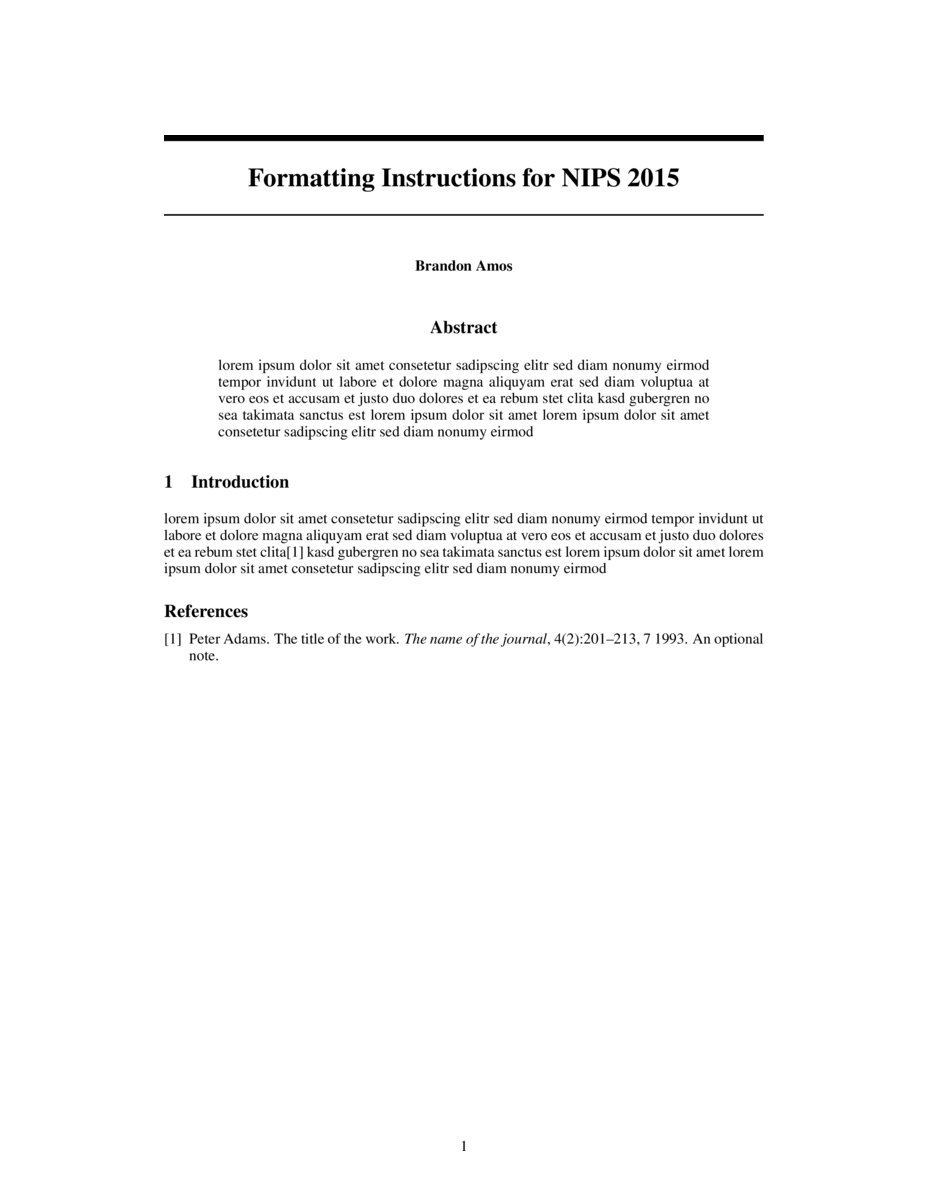
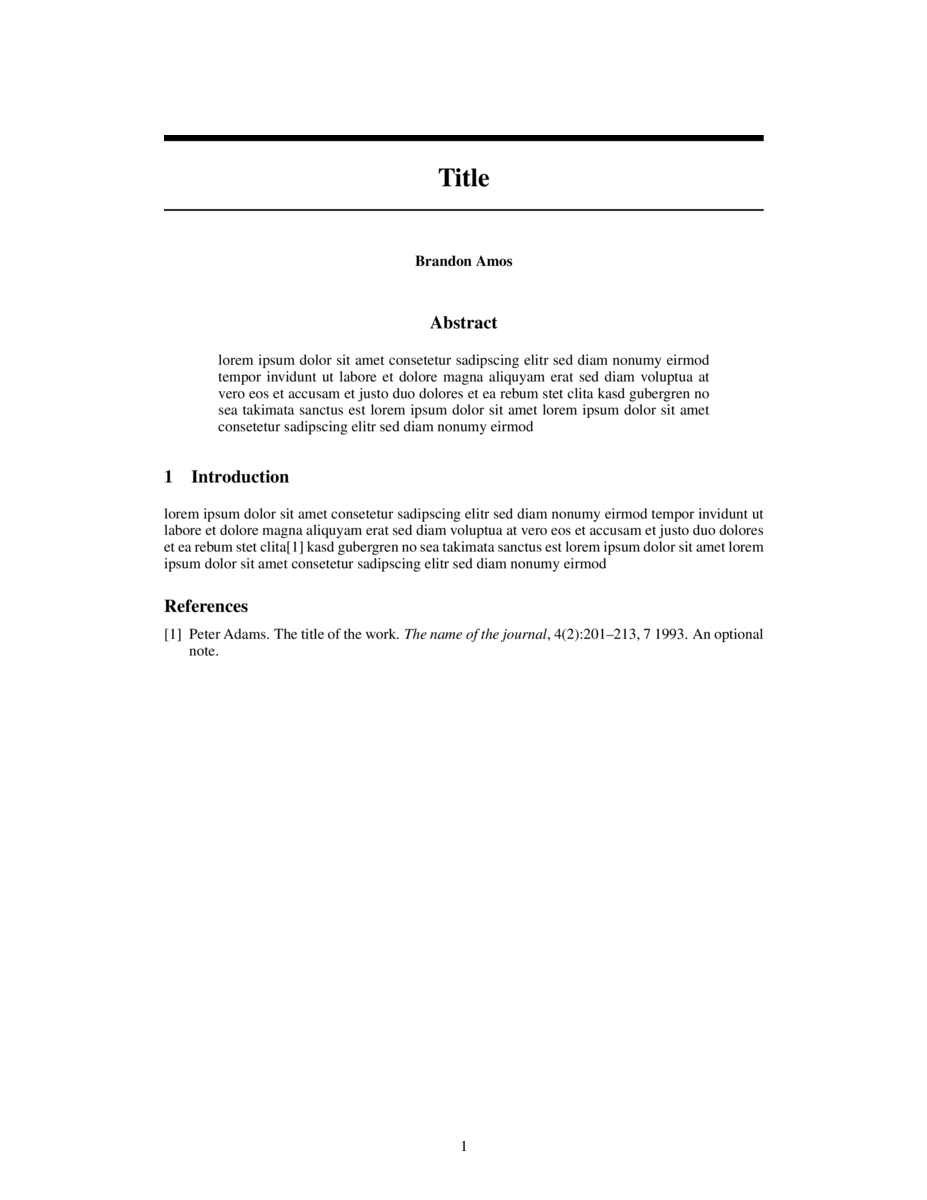
Built latex-templates from commit 4a4caff on branch master.

Changed region(s): [[0.1812, 0.2158, 0.8457, 0.555], [0.1812, 0.1233, 0.8155, 0.185]]

diff --git a/templates/nips/nips.tex b/templates/nips/nips.tex
@@ -6,8 +6,7 @@
 \usepackage{natbib}
 \setlength{\bibsep}{0.0pt}
 
-\title{Formatting Instructions for NIPS 2015}
-
+\title{Title}
 \author{Brandon Amos}
 
 \newcommand{\fix}{\marginpar{FIX}}
